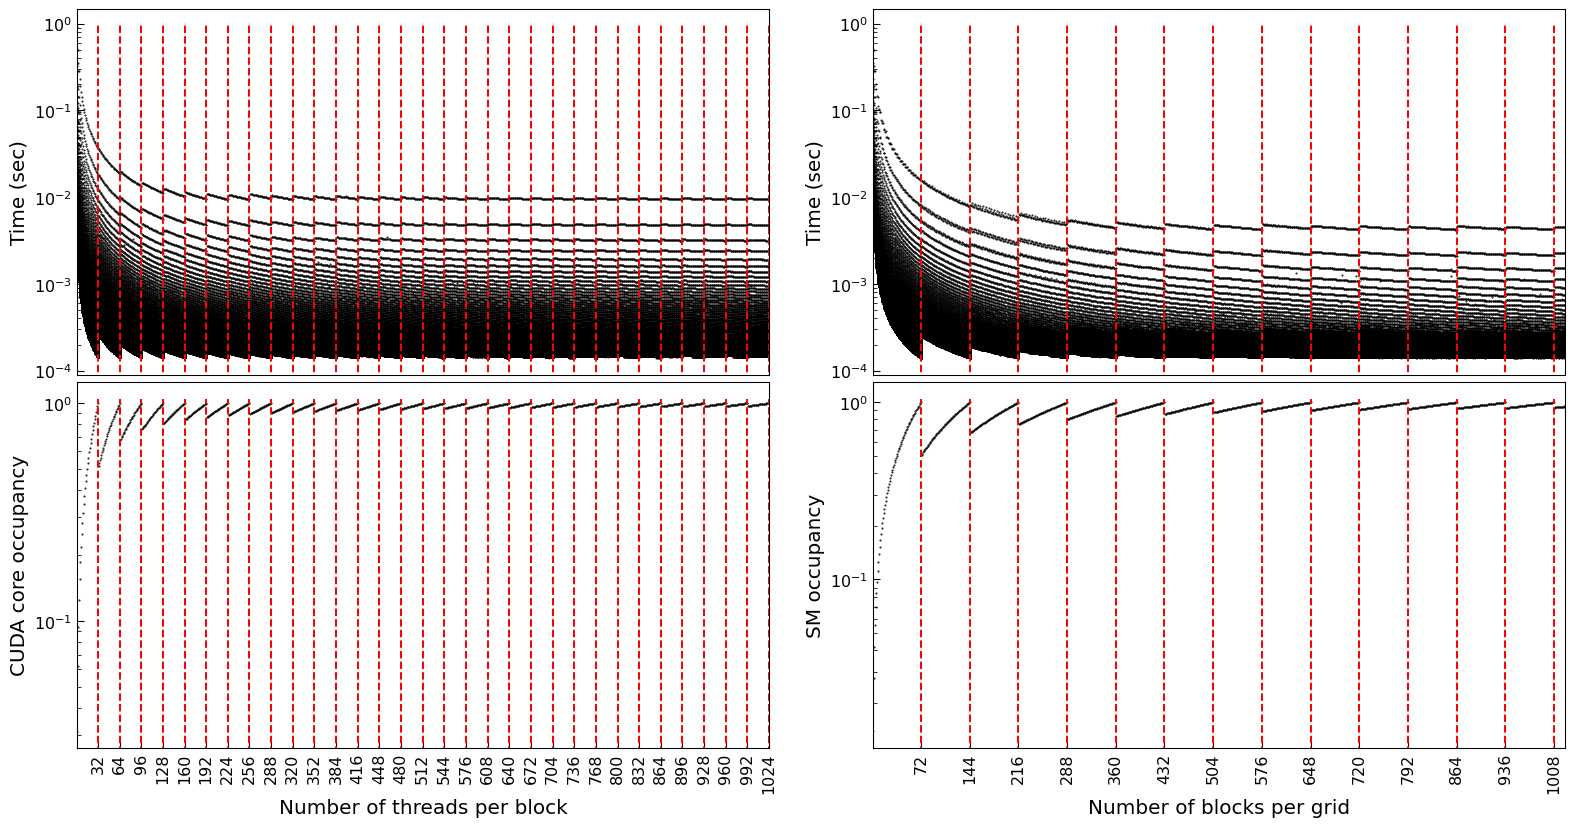
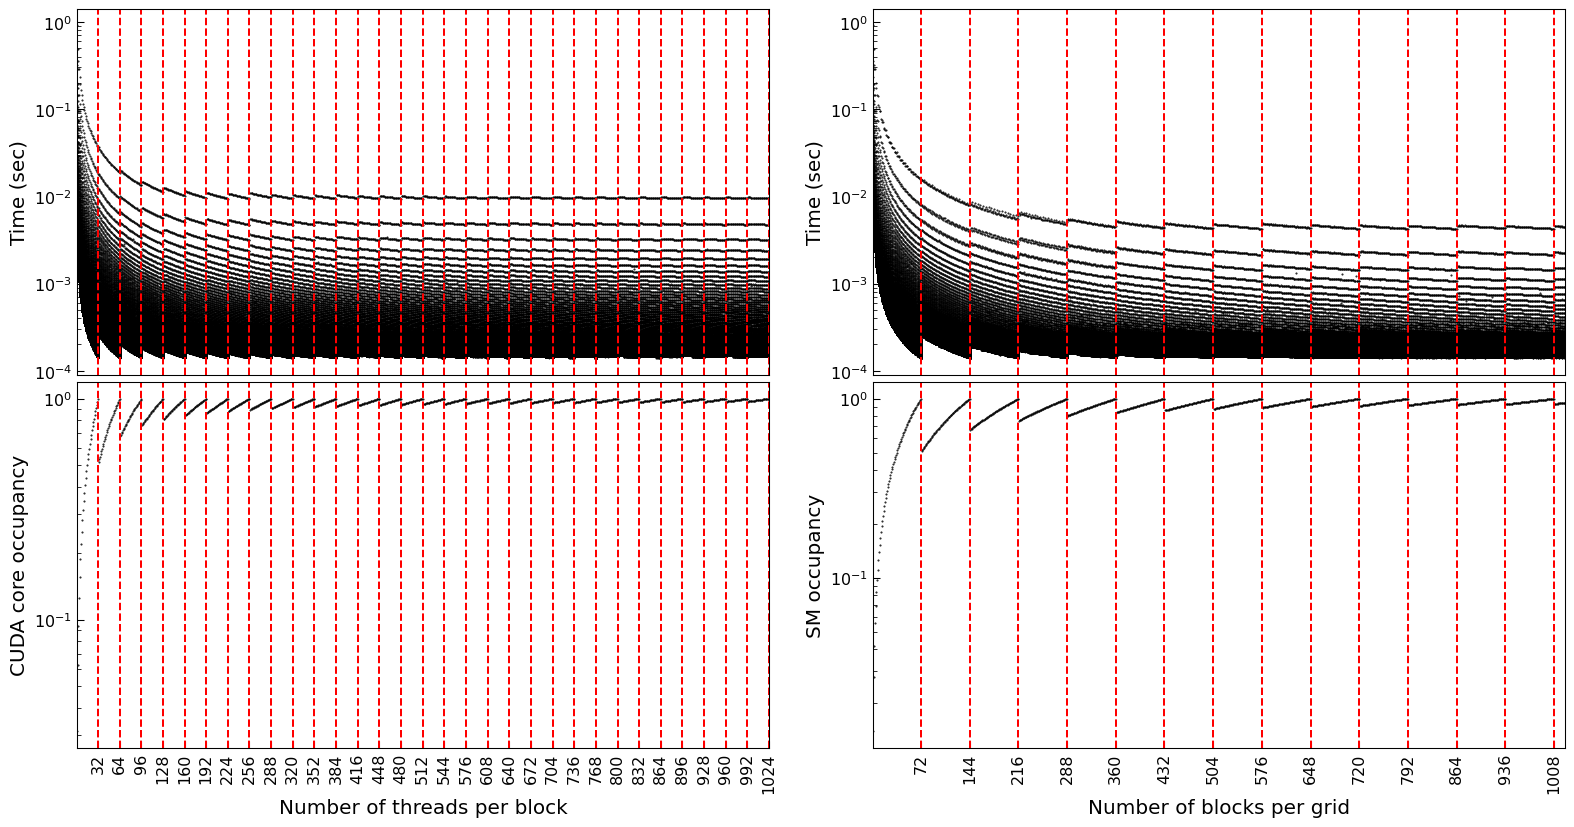
Update

diff --git a/occupancy.py b/occupancy.py
@@ -27,6 +27,11 @@ Time      = np.loadtxt( File,  usecols=(2), unpack=True, delimiter=' ' )
 ax[0][0].plot(blockSize, Time, 'o', markersize=0.5, color='black')
 ax[0][1].plot(gridSize,  Time, 'o', markersize=0.5, color='black')
 
+ax[0][1].set_yscale('log')
+ax[1][0].set_yscale('log')
+ax[1][1].set_yscale('log')
+ax[0][0].set_yscale('log')
+
 ax00max = ax[0][0].get_ylim()[1]
 ax00min = ax[0][0].get_ylim()[0]
 ax10max = ax[1][0].get_ylim()[1]
@@ -36,22 +41,19 @@ ax01max = ax[0][1].get_ylim()[1]
 ax01min = ax[0][1].get_ylim()[0]
 ax11max = ax[1][1].get_ylim()[1]
 ax11min = ax[1][1].get_ylim()[0]
-print("ax00max=%d, ax10max=%d, ax01max=%d, ax11max=%d" %(ax00max, ax10max, ax01max, ax11max))
-print("ax00min=%d, ax10min=%d, ax01min=%d, ax11min=%d" %(ax00min, ax10min, ax01min, ax11min))
 
 for threadIdx in range(32,1025,32):
    ax[0][0].vlines( threadIdx, ax00min, ax00max, color='red', linestyles='dashed' )
    ax[1][0].vlines( threadIdx, ax10min, ax10max, color='red', linestyles='dashed' )
 
-for threadIdx in range(72,1025,72):
-   ax[0][1].vlines( threadIdx, ax01min, ax01max, color='red', linestyles='dashed' )
-   ax[1][1].vlines( threadIdx, ax11min, ax11max, color='red', linestyles='dashed' )
+for blockIdx in range(72,1025,72):
+   ax[0][1].vlines( blockIdx, ax01min, ax01max, color='red', linestyles='dashed' )
+   ax[1][1].vlines( blockIdx, ax11min, ax11max, color='red', linestyles='dashed' )
 
-
-ax[0][1].set_yscale('log')
-ax[1][0].set_yscale('log')
-ax[1][1].set_yscale('log')
-ax[0][0].set_yscale('log')
+ax[0][0].set_ylim(ax00min,ax00max)
+ax[0][1].set_ylim(ax01min,ax01max)
+ax[1][0].set_ylim(ax10min,ax10max)
+ax[1][1].set_ylim(ax11min,ax11max)
 
 ax[0][0].set_ylabel("Time (sec)", fontsize=15)
 ax[1][0].set_ylabel("CUDA core occupancy", fontsize=15)
